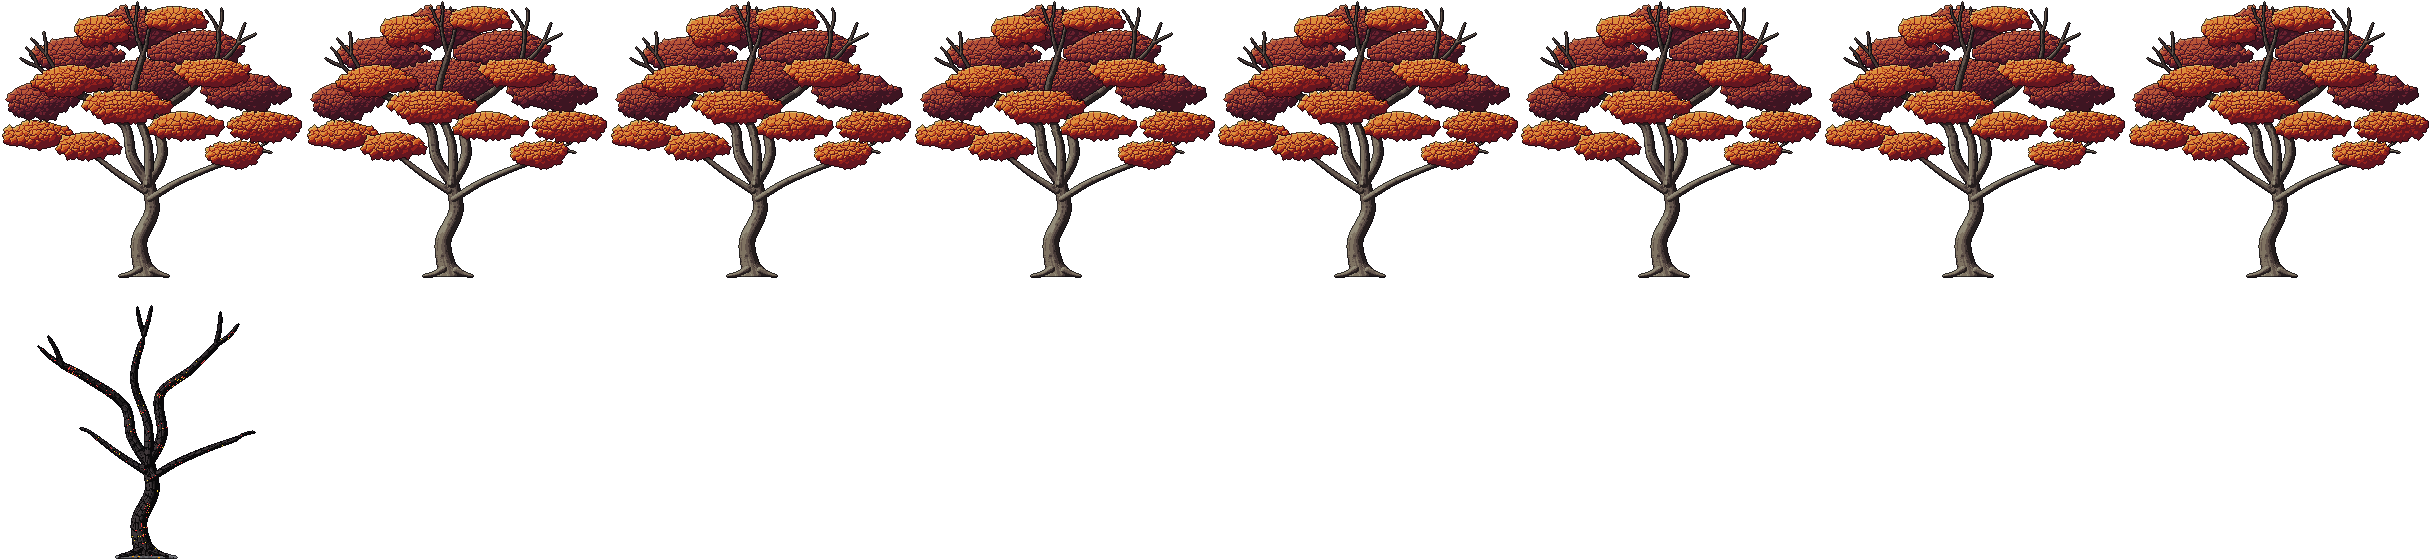
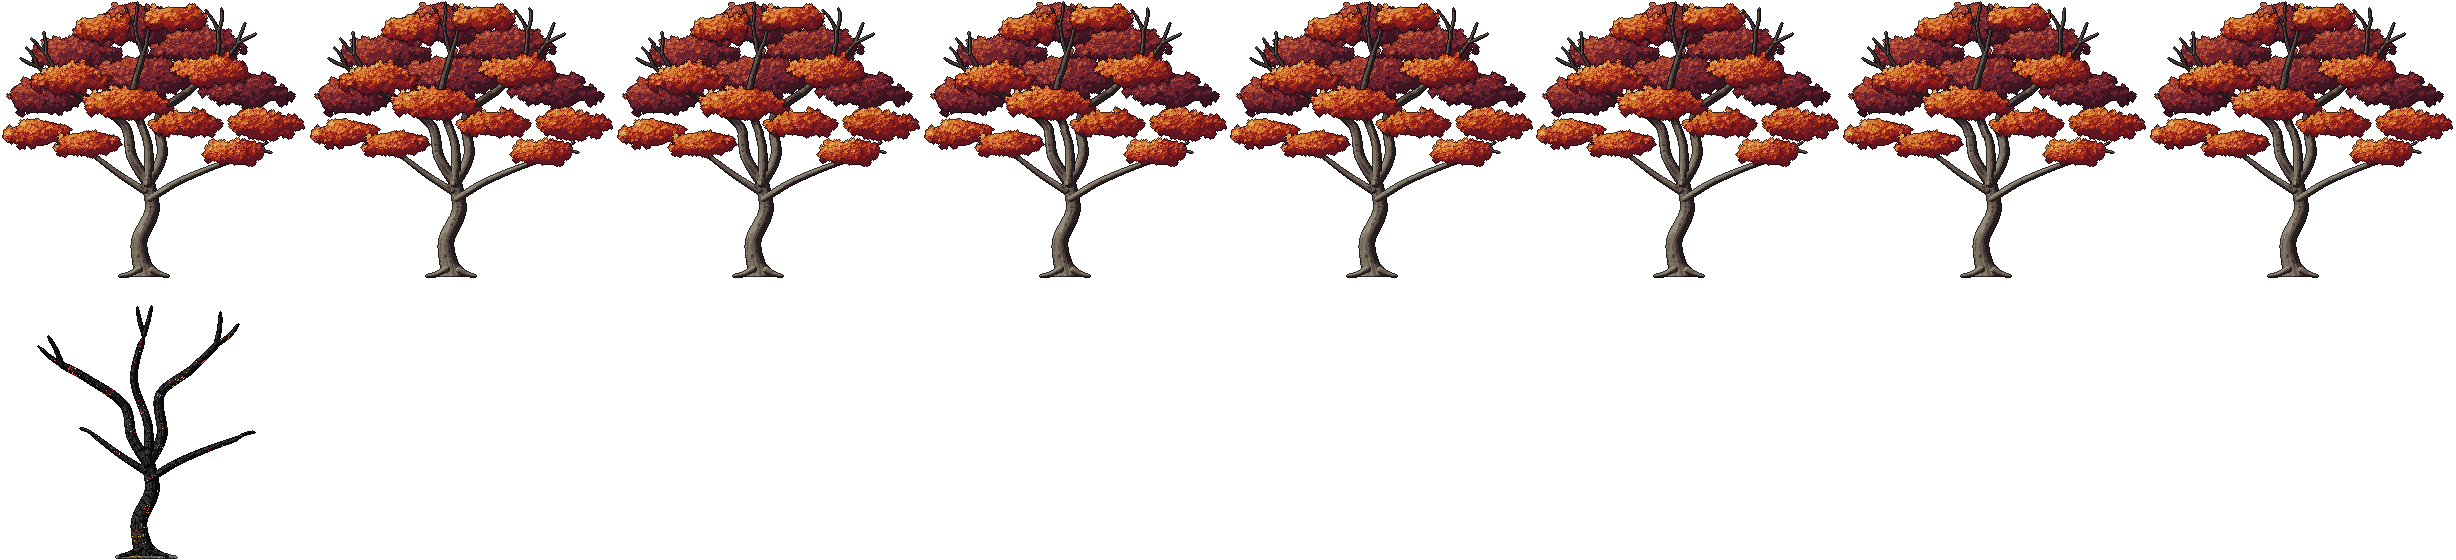
World sprites (in progress): latest sheets from the artists
Snapshot while the artists keep working.

Claude-Session: https://claude.ai/code/session_01E1PN8FTpA19jzx1FNkVfPu

diff --git a/tools/world-sprites/trees.ts b/tools/world-sprites/trees.ts
@@ -941,8 +941,8 @@ function tierArt(t: Tier): Art {
       // Branch line: rises from the trunk, droops toward the tip.
       const yc = droop * Math.pow(tn, 1.7) - 2 * (1 - tn);
       const topT = t.top * Math.pow(Math.max(0, 1 - tn), 0.8) + 2.5;
-      const tipCut = tn > 0.86 ? Math.pow((tn - 0.86) / 0.18, 1.4) : 0;
-      const skirt = t.skirt * (0.42 + 0.58 * Math.pow(1 - tn, 0.7)) + sp.drop * Math.sqrt(Math.max(0, 1 - lu * lu));
+      const tipCut = tn > 0.86 ? Math.min(1, Math.pow((tn - 0.86) / 0.18, 1.4)) : 0;
+      const skirt = t.skirt * (0.42 + 0.58 * Math.pow(Math.max(0, 1 - tn), 0.7)) + sp.drop * Math.sqrt(Math.max(0, 1 - lu * lu));
       // Needle tips: columns hang in 2 px groups of uneven length.
       const ncol = Math.floor((x + 400) / 2);
       const needle = Math.floor(hash(ncol, 0, t.seed + 7) * 4) - (Math.abs(lu) > 0.82 ? 3 : 0);
